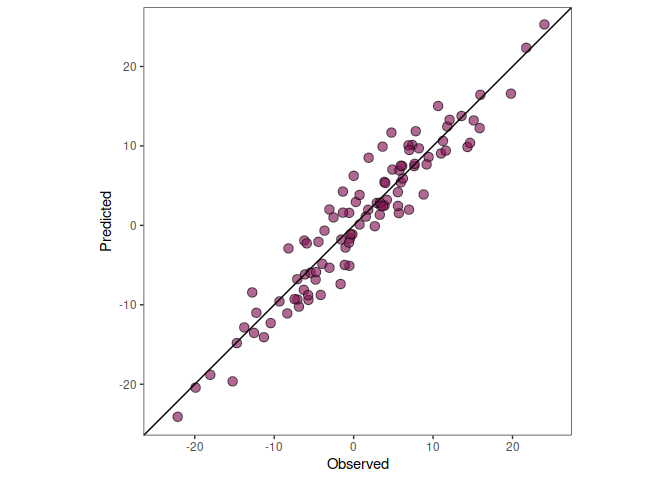
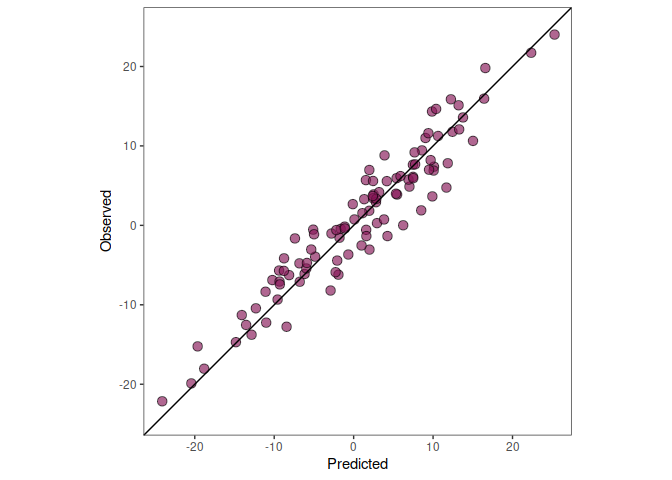
Update to plot functions

diff --git a/README.md b/README.md
@@ -48,15 +48,16 @@ Y <- X + rnorm(n=100, mean = 0, sd = 3)
 # Data frame
 example.data <- data.frame(obs = X, pred = Y)
 
-# Create scatter plot
-scatter.plot(obs = example.data$obs, pred = example.data$pred)
+# Create scatter plot with OP orientation
+scatter.plot(obs = example.data$obs, pred = example.data$pred,
+             orientation = "OP")
 ```
 
 <img src="man/figures/README-example-1.png" width="100%" />
 
 ``` r
-# Create tiles plot
-tiles.plot(obs = example.data$obs, pred = example.data$pred, bins = 10)
+# Create tiles plot with PO orientation
+tiles.plot(obs = example.data$obs, pred = example.data$pred, bins = 10, orientation = "PO")
 ```
 
 <img src="man/figures/README-example-2.png" width="100%" />
